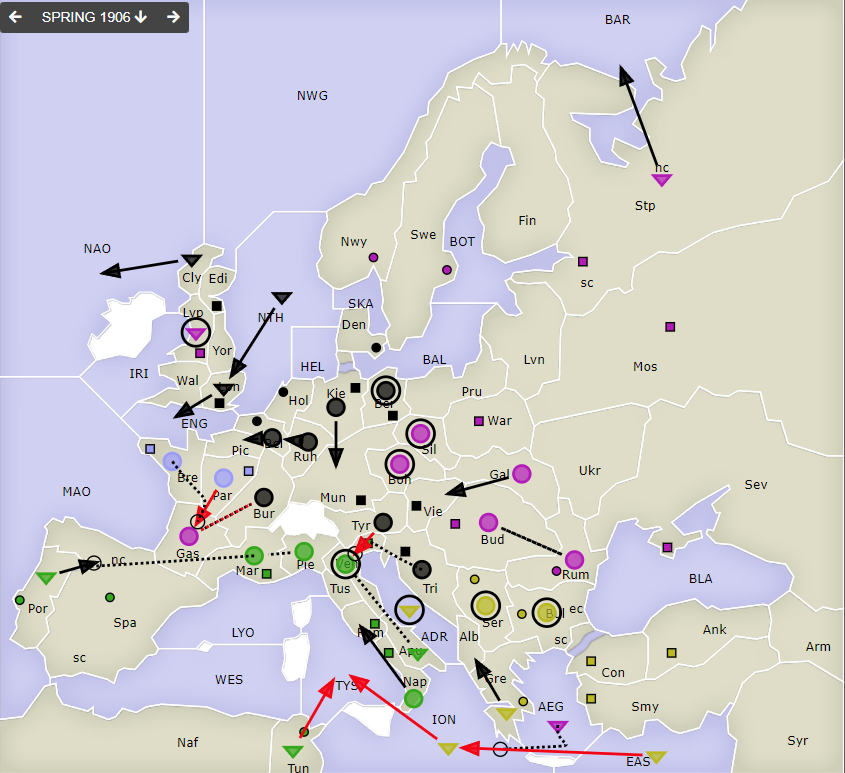
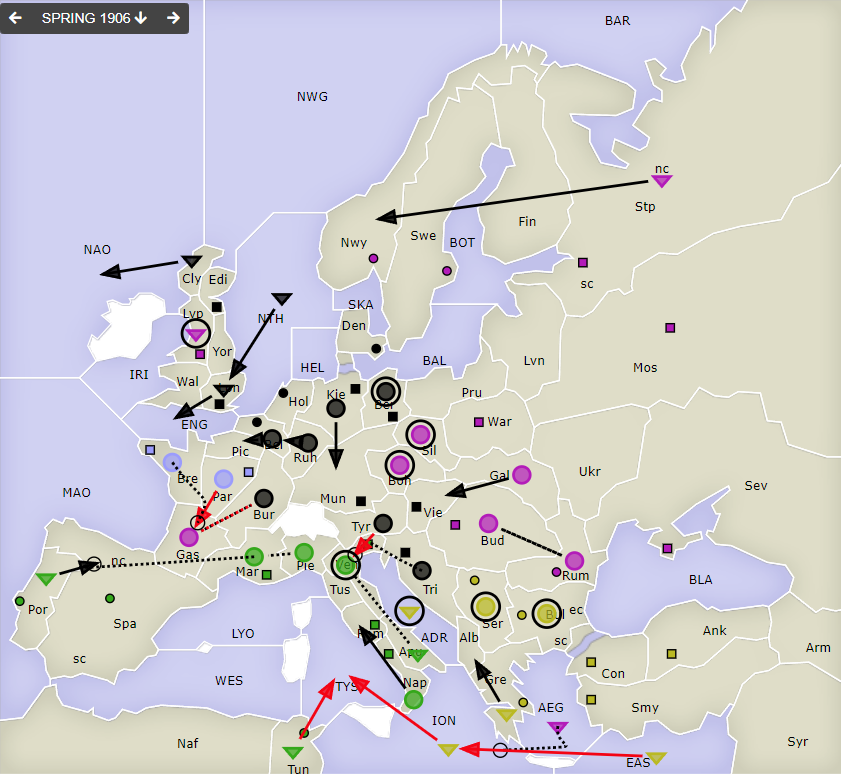
a1906f fix

diff --git a/docs/dippy-atari/dippy-a1906f.md b/docs/dippy-atari/dippy-a1906f.md
@@ -13,28 +13,29 @@ Category: Spiel
 ## Züge
 
 
-| Austria | England | France            | Germany          | Italy             | Russia              | Turkey            |
-|---------|---------|-------------------|------------------|-------------------|---------------------|-------------------|
-| /       | /       | <u>A Par-Gas</u>  | A Bel-Pic        | <u>F Tun-TYS</u>  | F AEG S GeF         | F ADR hld         |
-|         |         | A Bre S "         | A Ber hld $      | A Ven hld         | &nbsp; EAS-ION      | A Bul hld         |
-|         |         |                   | A Bur S RuA      | F Apu S "         | A Boh hld           | <u>F EAS-ION</u>  |
-|         |         |                   | &nbsp; Gas hld   | F Por-SpN         | A Rum S Bud&darr;   | F Gre-Alb         |
-|         |         |                   | F Cly-NAO        | A Mar S "         | A Bud S Rum&uarr;   | <u>F ION-TYS</u>  |
-|         |         |                   | A Kie-Mun        | A Pie S A         | A Gal-Vie           | A Ser hld         |
-|         |         |                   | F Lon-ENG        | &nbsp; Mar hld    | <u>A Gas S Bur</u>  |                   |
-|         |         |                   | F NTH-Lon        | A Nap-Rom         | F Lvp hld           |                   |
-|         |         |                   | A Ruh-Bel        |                   | A Sil hld           |                   |
-|         |         |                   | <u>A Tyr-Ven</u> |                   | F StN-BAR           |                   |
-|         |         |                   | A Tri S "        |                   |                     |                   |
+| Austria | England | France            | Germany          | Italy             | Russia             | Turkey            |
+|---------|---------|-------------------|------------------|-------------------|--------------------|-------------------|
+| /       | /       | <u>A Par-Gas</u>  | A Bel-Pic        | <u>F Tun-TYS</u>  | F AEG S GeF        | F ADR hld         |
+|         |         | A Bre S "         | A Ber hld $      | A Ven hld         | &nbsp; EAS-ION     | A Bul hld         |
+|         |         |                   | A Bur S RuA      | F Apu S "         | A Boh hld          | <u>F EAS-ION</u>  |
+|         |         |                   | &nbsp; Gas hld   | F Por-SpN         | A Rum S Bud&darr;  | F Gre-Alb         |
+|         |         |                   | F Cly-NAO        | A Mar S "         | A Bud S Rum&uarr;  | <u>F ION-TYS</u>  |
+|         |         |                   | A Kie-Mun        | A Pie S A         | A Gal-Vie          | A Ser hld         |
+|         |         |                   | F Lon-ENG        | &nbsp; Mar hld    | <u>A Gas S Bur</u> |                   |
+|         |         |                   | F NTH-Lon        | A Nap-Rom         | F Lvp hld          |                   |
+|         |         |                   | A Ruh-Bel        |                   | A Sil hld          |                   |
+|         |         |                   | <u>A Tyr-Ven</u> |                   | F StN-Nwy §        |                   |
+|         |         |                   | A Tri S "        |                   |                    |                   |
 {: .orders}
 
 Anmerkungen: 
- * `Ru F Stp-Nwy` habe ich geändert zu `Ru F StN-Nwy` -- es ist für den Spieler kein Muss, die Küste anzugeben, an der die Flotte ist, es ist aber eine gute Übung.
- * Germany hat der `A Ber` Urlaub an der Spree gegeben. `$` = No Orders Received.
+ * `§`: `Ru F Stp-Nwy` habe ich geändert zu `Ru F StN-Nwy` -- es ist für den Spieler kein Muss, die Küste anzugeben, an der die Flotte ist, es ist aber eine gute Übung.
+ * `$`: Germany hat der `A Ber` Urlaub an der Spree gegeben. `$` = No Orders Received.
  * Während der Sultan die gewohnten Ich-schau-nur-zu-Haltezüge gemacht hat, wird der Zar wohl nervös und fängt mit gegenseitigen-Halteunterstützungen an.
  * Ja, das wird sehr eng an der Seine. Mit der guten Verteidigung am Po (sic!) ist am Tiber aber noch nichts verloren.  
  
-
+CHANGES:
+ * Ich hatte in der Tabelle und den Grafiken <strike>`Ru F StN-BAR`</strike> geschrieben, es ist aber, wie in den Anm auch steht `Ru F StN-Nwy`.
 
 ![Züge](images/a1906f-1.png)
 
